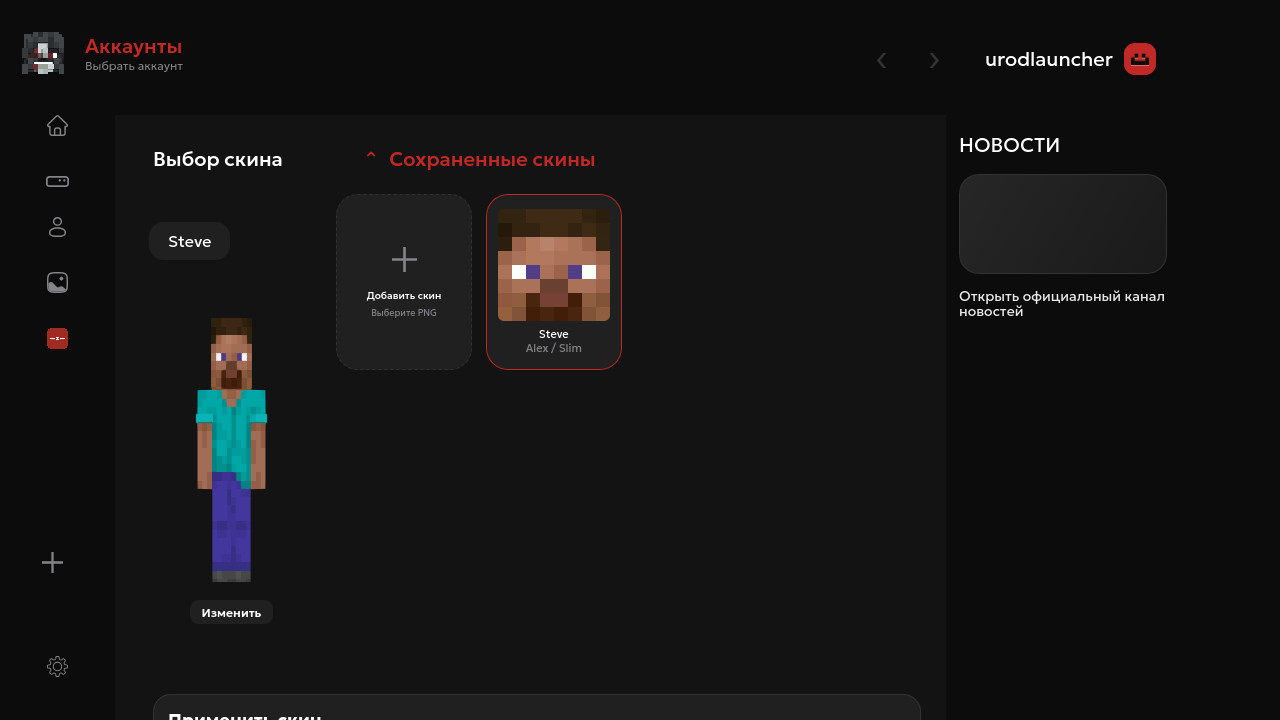
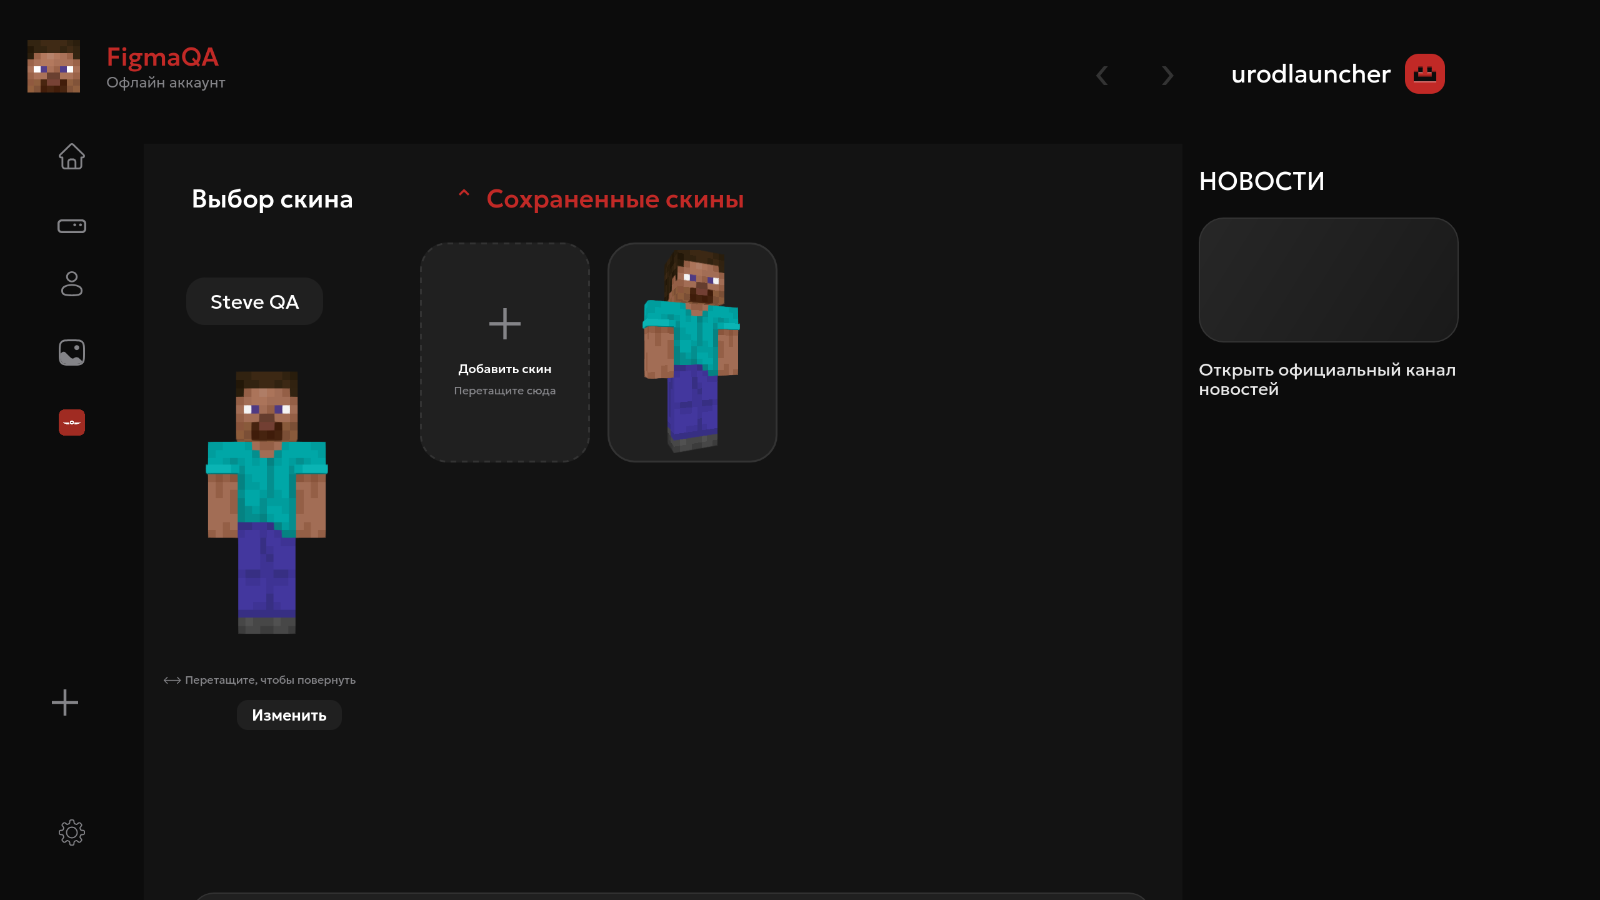
feat(skins): render full-body library previews from saved textures

diff --git a/apps/app-frontend/src/components/SkinsPage.vue b/apps/app-frontend/src/components/SkinsPage.vue
@@ -1,6 +1,7 @@
 <script setup lang="ts">
-import { computed, onMounted, ref, shallowRef, watch } from 'vue'
+import { computed, onMounted, onUnmounted, ref, shallowRef, watch } from 'vue'
 import { invoke } from '@tauri-apps/api/core'
+import { SkinViewer } from 'skinview3d'
 import type { Account, Skin } from '../models'
 import SkinPreview from './SkinPreview.vue'
 
@@ -18,6 +19,10 @@ const props = defineProps<{
 }>()
 const emit = defineEmits<{ applied: [account: Account] }>()
 const items = shallowRef<SavedSkin[]>([])
+const thumbnails = shallowRef<Record<string, string>>({})
+let thumbnailViewer: SkinViewer | null = null
+let thumbnailGeneration = 0
+let thumbnailQueue: Promise<void> = Promise.resolve()
 const selectedId = shallowRef('')
 const accountId = shallowRef('')
 const name = shallowRef('')
@@ -56,6 +61,50 @@ async function load() {
 onMounted(() => {
 	void load()
 })
+watch(items, (skins) => {
+	const generation = ++thumbnailGeneration
+	thumbnailQueue = thumbnailQueue
+		.then(async () => {
+			thumbnails.value = {}
+			for (const skin of skins) {
+				if (generation !== thumbnailGeneration) return
+				const texture = skin.preview?.texture
+				if (!texture) continue
+				try {
+					if (!thumbnailViewer) {
+						thumbnailViewer = new SkinViewer({
+							canvas: document.createElement('canvas'),
+							width: 120,
+							height: 164,
+							zoom: 1.05,
+							preserveDrawingBuffer: true,
+							renderPaused: true,
+							enableControls: false,
+						})
+						thumbnailViewer.playerObject.rotation.y = 0.38
+					}
+					await thumbnailViewer.loadSkin(texture, { model: skin.slim ? 'slim' : 'default' })
+					if (generation !== thumbnailGeneration) return
+					thumbnailViewer.render()
+					thumbnails.value = {
+						...thumbnails.value,
+						[skin.id]: thumbnailViewer.canvas.toDataURL('image/png'),
+					}
+				} catch {
+					// Keep the validated head preview when WebGL is unavailable.
+				}
+				await new Promise<void>((resolve) => setTimeout(resolve, 0))
+			}
+		})
+		.catch(() => {})
+})
+onUnmounted(() => {
+	thumbnailGeneration++
+	void thumbnailQueue.finally(() => {
+		thumbnailViewer?.dispose()
+		thumbnailViewer = null
+	})
+})
 async function run(command: string, args: Record<string, unknown>, success: string) {
 	busy.value = true
 	error.value = ''
@@ -71,9 +120,7 @@ async function run(command: string, args: Record<string, unknown>, success: stri
 		busy.value = false
 	}
 }
-async function upload(event: Event) {
-	const input = event.target as HTMLInputElement
-	const file = input.files?.[0]
+function readSkinFile(file: File | undefined) {
 	if (!file) return
 	if (file.size > 1_048_576 || file.type !== 'image/png') {
 		error.value = 'Выберите PNG размером до 1 МБ'
@@ -92,7 +139,15 @@ async function upload(event: Event) {
 		error.value = 'Не удалось прочитать файл'
 	}
 	reader.readAsDataURL(file)
+}
+function upload(event: Event) {
+	const input = event.target as HTMLInputElement
+	readSkinFile(input.files?.[0])
 	input.value = ''
+}
+function dropSkin(event: DragEvent) {
+	prepareAdd()
+	readSkinFile(event.dataTransfer?.files[0])
 }
 function prepareAdd() {
 	error.value = ''
@@ -178,10 +233,16 @@ function reset() {
 		<p v-if="error && !addOpen && !editOpen" role="alert" class="skin-page-error">{{ error }}</p>
 		<div class="skin-layout">
 			<aside class="skin-list" aria-label="Сохранённые скины">
-				<label class="skin-add-tile" :aria-disabled="busy" @click="prepareAdd">
+				<label
+					class="skin-add-tile"
+					:aria-disabled="busy"
+					@dragover.prevent
+					@drop.prevent="dropSkin"
+					@click="prepareAdd"
+				>
 					<img src="/figma/55119.svg" width="25" height="25" alt="" />
 					<strong>Добавить скин</strong>
-					<small>Выберите PNG</small>
+					<small>Перетащите сюда</small>
 					<input
 						type="file"
 						accept="image/png"
@@ -195,10 +256,18 @@ function reset() {
 					:key="item.id"
 					class="skin-item"
 					:class="{ selected: selectedId === item.id }"
+					:aria-label="`Выбрать скин ${item.name}`"
+					:aria-pressed="selectedId === item.id"
 					@click="selectSkin(item)"
 				>
 					<img
-						v-if="item.preview?.head"
+						v-if="thumbnails[item.id]"
+						class="skin-thumbnail"
+						:src="thumbnails[item.id]"
+						alt=""
+					/>
+					<img
+						v-else-if="item.preview?.head"
 						:src="item.preview.head"
 						width="42"
 						height="42"
@@ -214,7 +283,10 @@ function reset() {
 					:texture="selected?.preview?.texture || null"
 					:slim="selected?.slim || false"
 					:reduced-motion="reducedMotion"
+					:width="183"
+					:height="260"
 				/>
+				<p v-if="selected" class="skin-detail-hint">⟷ Перетащите, чтобы повернуть</p>
 				<div v-if="selected" class="skin-controls">
 					<button class="button secondary skin-edit-button" :disabled="busy" @click="showEdit">
 						Изменить
@@ -627,24 +699,39 @@ function reset() {
 	position: relative;
 	flex-direction: column;
 	justify-content: center;
-	gap: 6px;
-	padding: 8px;
+	gap: 0;
+	padding: 0;
 	text-align: center;
+	overflow: hidden;
 }
 .skin-item:hover,
-.skin-item.selected {
+.skin-item:focus-visible {
 	background: var(--figma-control);
 	border-color: var(--figma-accent);
 }
+.skin-item.selected {
+	background: var(--figma-control);
+	border-color: var(--figma-border);
+}
 .skin-item img {
-	width: 112px;
-	height: 112px;
+	width: 120px;
+	height: 164px;
 	object-fit: contain;
 	image-rendering: pixelated;
 }
 .skin-item span {
-	max-width: 116px;
+	position: absolute;
+	bottom: 0;
+	left: 0;
+	width: 100%;
+	padding: 6px;
+	background: var(--figma-control);
 	font-size: 11px;
+	opacity: 0;
+}
+.skin-item:hover span,
+.skin-item:focus-visible span {
+	opacity: 1;
 }
 .skin-item b {
 	position: absolute;
@@ -653,6 +740,7 @@ function reset() {
 	font-size: 12px;
 }
 .skin-detail {
+	position: relative;
 	grid-column: 1;
 	grid-row: 1;
 	width: 183px;
@@ -672,24 +760,35 @@ function reset() {
 	overflow: hidden;
 	text-overflow: ellipsis;
 }
-.skin-detail .skin-preview {
+.skin-detail :deep(.skin-preview) {
 	width: 183px;
-	min-height: 300px;
-	height: 300px;
+	min-height: 260px;
+	height: 260px;
 	overflow: hidden;
 }
-.skin-detail .skin-preview canvas {
+.skin-detail :deep(.skin-preview canvas) {
 	max-width: none;
 	width: 183px;
-	height: 300px;
+	height: 260px;
+	transform: translate(-32px, -16px) scale(0.88, 0.96);
+	transform-origin: top center;
 }
-.skin-detail .skin-preview p {
+.skin-detail :deep(.skin-preview p) {
 	font-size: 11px;
 	text-align: center;
 }
+.skin-detail-hint {
+	position: absolute;
+	top: 344px;
+	left: -10px;
+	margin: 0;
+	color: var(--figma-muted);
+	font-size: 9px;
+	white-space: nowrap;
+}
 .skin-controls {
 	justify-content: center;
-	margin: 8px 0 0;
+	margin: 0;
 }
 .skin-edit-button {
 	min-height: 24px;
@@ -702,7 +801,7 @@ function reset() {
 .skin-actions {
 	grid-column: 1 / -1;
 	grid-row: 2;
-	margin-top: 70px;
+	margin-top: 130px;
 	background: var(--figma-control);
 	border-color: var(--figma-border);
 }

diff --git a/apps/app-frontend/src/components/SkinPreview.vue b/apps/app-frontend/src/components/SkinPreview.vue
@@ -2,13 +2,23 @@
 import { onMounted, onUnmounted, useTemplateRef, watch } from 'vue'
 import { SkinViewer } from 'skinview3d'
 
-const props = defineProps<{ texture: string | null; slim: boolean; reducedMotion?: boolean }>()
+const props = defineProps<{
+	texture: string | null
+	slim: boolean
+	reducedMotion?: boolean
+	width?: number
+	height?: number
+}>()
 const canvas = useTemplateRef<HTMLCanvasElement>('canvas')
 let viewer: SkinViewer | null = null
 onMounted(() => {
 	if (!canvas.value) return
 	try {
-		viewer = new SkinViewer({ canvas: canvas.value, width: 260, height: 320 })
+		viewer = new SkinViewer({
+			canvas: canvas.value,
+			width: props.width ?? 260,
+			height: props.height ?? 320,
+		})
 		viewer.autoRotate = false
 		viewer.autoRotateSpeed = 0.35
 		viewer.controls.enableZoom = false
@@ -35,7 +45,7 @@ onUnmounted(() => {
 </script>
 <template>
 	<div class="skin-preview" aria-label="Трёхмерный просмотр скина">
-		<canvas ref="canvas" width="260" height="320" aria-hidden="true" />
+		<canvas ref="canvas" :width="width ?? 260" :height="height ?? 320" aria-hidden="true" />
 		<p v-if="!texture">Выберите скин из библиотеки</p>
 	</div>
 </template>

diff --git a/docs/FIGMA_IMPLEMENTATION_MAP.md b/docs/FIGMA_IMPLEMENTATION_MAP.md
@@ -10,7 +10,7 @@ The page metadata lists 23 top-level frames: 16 settings windows at 837×470, fi
 | `3:1094` | Gallery, 1280×720 | `AppNavbar.vue`, `ContentPage.vue` | `figma.css`, exported SVGs | Live Modrinth catalog, target instance, filter, search, install | Main geometry transferred; Tauri screenshot captured; actual projects differ from placeholder cards |
 | `3:713` | Pack content, 1280×720 | `LibraryPage.vue`, `App.vue` | `figma.css`, original tab, item, toggle and action SVGs | Real installed mods, shaders and resource packs; search, category filter, toggle, update, remove, play, settings, live game log and operation messages | Native Tauri frame compared, 4.06/255 mean RGB error before live log data; latest game log and compact journal drawer also captured |
 | `3:888` | Mod browser for a selected pack, 1280×720 | `ContentPage.vue` | `figma.css`, original search and folder SVGs, live Modrinth icons | Real Modrinth search, sort, compatible install into the selected pack; mod, shader and resource pack tabs | Native Tauri frame compared, 4.38/255 mean RGB error; demo catalog content differs from live results |
-| `3:1012` | Skins, 1280×720 | `SkinsPage.vue`, `SkinPreview.vue` | `figma.css`, exported add icon | Real local PNG library and draggable 3D viewer | Grid and shell transferred; card thumbnails still show head crops instead of full figure |
+| `3:1012` | Skins, 1280×720 | `SkinsPage.vue`, `SkinPreview.vue` | `figma.css`, exported add icon | Real local PNG library, file picker and drop target, draggable 3D viewer; full-body card thumbnails rendered from each validated texture | Native comparison 9.86/255 mean RGB error; reference shows eight sample skins, isolated QA has one Steve texture and a different account |
 | `3:1259` | Edit skin, 500×489 | `SkinsPage.vue` | Exported dialog SVG/PNG | Change Steve/Alex; rename in main view; replace texture visibly disabled | Geometry transferred and Tauri screenshot compared; user texture differs from Figma sample |
 | `3:1297` | Add skin, 500×489 | `SkinsPage.vue` | Exported dialog SVG/PNG | Select and validate PNG, 3D preview, save | Geometry transferred and Tauri screenshot compared; user texture differs from Figma sample |
 | `3:104` | Java locations, 837×470 | `FigmaGlobalSettings.vue`, `JavaRuntimeDialog.vue` | `figma.css`, original search, folder and check SVGs | Separate Java 25 and 21 paths persisted and validated; detect and choose; per-pack override takes priority | Native Tauri frame compared, 2.91/255 mean RGB error; recommended runtime installation remains unavailable |
@@ -52,7 +52,7 @@ The files above live under `apps/app-frontend/public/figma` unless another direc
 
 The [library app capture](screenshots/figma-rc/library-1280x720.png) was taken from the running Tauri window at 1280×720. Compare it with the [Figma export](figma-reference/library-3-1152.png), [50% overlay](figma-reference/library-overlay.png), and [contrast-enhanced difference](figma-reference/library-diff.png). Mean absolute RGB error is 1.69/255 for the top 115 px, 2.20/255 for the left rail, and 1.73/255 for the news rail. The workspace error is 12.52/255 because the Figma frame contains ten illustrative cards while the isolated local data directory contains no installed packs. These numbers are measurements, not a claim of finished pixel matching.
 
-Additional real Tauri captures: [gallery](screenshots/figma-rc/gallery-1280x720.png), [skins](screenshots/figma-rc/skins-1280x720.png), [add skin](screenshots/figma-rc/add-skin-1280x720.png), and [edit skin](screenshots/figma-rc/edit-skin-1280x720.png). The skin images use a known sample PNG in an isolated test data directory. They are not screenshots from Figma. All captures are work in progress; control states, smaller windows, and settings still need comparison.
+Additional real Tauri captures: [gallery](screenshots/figma-rc/gallery-1280x720.png), [skins](screenshots/figma-rc/skins-1280x720.png), [add skin](screenshots/figma-rc/add-skin-1280x720.png), and [edit skin](screenshots/figma-rc/edit-skin-1280x720.png). The skin images use a known sample PNG in an isolated test data directory. They are not screenshots from Figma. The updated [skin reference](figma-reference/frame-3-1012.png), [50% overlay](figma-reference/skins-overlay.png), and [contrast-enhanced difference](figma-reference/skins-diff.png) were compared after full-body thumbnails were added. Whole-frame mean absolute RGB error is 9.86/255; most remaining content difference comes from the illustrative eight skins in Figma versus one QA skin and the different account/news text. At the standard size, the card and add-tile edges align closely. The [860×620 native capture](screenshots/figma-rc/skins-860x620-physical-125pct.png) retains the picker, preview, edit control and navigation without document horizontal overflow. Dialog and control states still need deeper comparison.
 
 The [pack content reference](figma-reference/frame-3-713.png) and [real Tauri capture](screenshots/figma-rc/pack-content-physical-125pct.png) have a [50% overlay](figma-reference/pack-content-overlay.png) and [difference image](figma-reference/pack-content-diff.png). The normalized mean absolute RGB error is 4.06/255 for that pre-log capture. The content panel begins at x=115 and the first installed item at y=226 in the 1280×720 CSS viewport. The real test pack contains Fabric API, one shader and one resource pack, while Figma shows illustrative content. The [live game log capture](screenshots/figma-rc/pack-content-game-log-1280x720.png) shows actual Fabric/Minecraft output from a native game session, converted from Log4j XML to readable lines. Search and severity filters operate on the latest 32 KiB and active launcher operations. At 860×620 the journal remains accessible through a [compact drawer](screenshots/figma-rc/pack-content-game-log-860x620.png). These later captures have not been scored against the static Figma sample because their real log data differs.
 

diff --git a/docs/TESTING.md b/docs/TESTING.md
@@ -1,6 +1,6 @@
 # Verification record
 
-Date: 2026-10-18. Branch: `release/1.0.0-figma-stable`. Results describe only checks observed on this Linux host and in the linked CI run. Native tests used isolated launcher data under `/tmp/urod-figma-rc` and `.qa-runtime/urod-figma-native`; live loader tests used an ignored local cache in `.qa-runtime`.
+Date: 2026-10-19. Branch: `release/1.0.0-figma-stable`. Results describe only checks observed on this Linux host and in the linked CI run. Native tests used isolated launcher data under `/tmp/urod-figma-rc` and `.qa-runtime/urod-figma-native`; live loader tests used an ignored local cache in `.qa-runtime`.
 
 | Command or scenario | Outcome |
 | --- | --- |
@@ -24,6 +24,7 @@ Date: 2026-10-18. Branch: `release/1.0.0-figma-stable`. Results describe only ch
 | [CI run 39160531660](https://github.com/Yozekkk/urod-launcher/actions/runs/39160531660) | Pass on the pushed pack synchronization commit: frontend/backend verification and the existing desktop package build matrix. The resource-limit changes are verified locally and await a new CI run after push. |
 | Real Tauri at 1280×720 | Library, gallery, skins, dialogs, global settings and pack settings captured from the running app under [figma-rc](screenshots/figma-rc) |
 | Skin save/edit/restart | Pass: known 64×64 PNG saved; Steve/Alex changed; state remained after WebView reload |
+| Skin library full-body thumbnails | Native Tauri at 1280×720 rendered a saved 64×64 Steve PNG as a full-body card and main 3D preview; drag-and-drop of that PNG opened the add dialog. Figma `3:1012` normalized whole-frame RGB difference: 9.86/255, with different real/demo skin and account content. At 860×620 the picker, preview, edit control and navigation remained visible with no document horizontal overflow. |
 | Settings persistence | Pass: global RAM set to 6144 MB and survived WebView reload; pack RAM set to 6144 MB, name changed and a copy created through the Figma style native dialog |
 | Vanilla 1.21.1 | Pass: official assets installed, Java 21 client started, Niri reported a `Minecraft 1.21.1` window, game stopped; second launch/stop passed in 22.11 seconds |
 | Fabric 1.21.1 | Pass: loader 0.19.5 installed, game PID 7654 launched, status remained running, stop passed in 246.63 seconds |

diff --git a/docs/STABLE_1.0.0_AUDIT.md b/docs/STABLE_1.0.0_AUDIT.md
@@ -1,6 +1,6 @@
 # UrodLauncher 1.0.0 Stable readiness audit
 
-Status on 2026-10-18: **release blocked; the repository remains version 0.1.0 Development**. Work is on `release/1.0.0-figma-stable`. No `v1.0.0` tag, Stable package, or GitHub Release has been published.
+Status on 2026-10-19: **release blocked; the repository remains version 0.1.0 Development**. Work is on `release/1.0.0-figma-stable`. No `v1.0.0` tag, Stable package, or GitHub Release has been published.
 
 | Gate | Evidence | Result |
 | --- | --- | --- |
@@ -8,7 +8,7 @@ Status on 2026-10-18: **release blocked; the repository remains version 0.1.0 De
 | Figma inventory | MCP `get_metadata` returned 23 top-level frames; `get_design_context` and screenshots for all listed top-level frames are retained in `docs/figma-reference` | Pass for extraction; child component analysis continues |
 | Settings design | All 16 settings contexts and original screenshots saved in `docs/figma-reference`, including `3:104`, `3:199`, and `3:402` | Pass for extraction; transfer and comparison incomplete |
 | Visual transfer | Shell, library, gallery, skins, dialogs, global settings shell and pack settings shell use exported Figma assets; [comparison map](FIGMA_IMPLEMENTATION_MAP.md) includes real desktop captures and measured differences | Partial: exact subframes and several settings controls remain unimplemented |
-| Functional skin library | PNG upload, safe native validation, model change and persistence exercised in isolated Tauri data | Pass for those paths; Microsoft live upload unavailable |
+| Functional skin library | PNG upload, safe native validation, model change and persistence exercised in isolated Tauri data; PNG drop opened the add dialog and full-body thumbnail rendered in the native app | Pass for those paths; Microsoft live upload unavailable |
 | Settings persistence | Global RAM changed to 6144 MB and survived WebView reload; pack RAM changed to 6144 MB, pack renamed and duplicated through the new native UI | Pass for these paths in isolated data |
 | Frontend check | TypeScript, ESLint, Prettier and 18 tests, including shader/resource pack compatibility | Pass |
 | Rust check | `cargo check --locked -p urod-launcher` | Pass |

diff --git a/docs/CHANGELOG.md b/docs/CHANGELOG.md
@@ -5,6 +5,7 @@
 - Imported original UrodLauncher Figma SVG/PNG assets and the Geologica/Inter fonts with OFL notices.
 - Replaced the main shell with Figma sidebar, header and news rail; reworked library and live Modrinth gallery geometry.
 - Reworked the skin page and add/edit dialogs using the inspected Figma frames. PNG upload, native validation, model choice and persistence remain functional.
+- Replaced skin-card head crops with full-body previews rendered from each saved PNG using one reusable WebGL viewer, matched the main preview scale against Figma `3:1012`, and made the add tile accept dropped PNG files.
 - Transferred the pack content manager and selected-pack Modrinth browser from Figma frames `3:713` and `3:888`, retaining live installed content and real catalog data. Added shader and resource pack search, compatibility checks and installation through the existing backend.
 - Fixed direct links to installed shaders and resource packs so their Modrinth type is recovered from project metadata even when the URL has no type parameter.
 - Added Figma-based global and pack settings windows. Global RAM, per-pack RAM, renaming and duplication were exercised in the native app. Unsupported sync, repair, fullscreen and command controls are explicitly unavailable.
